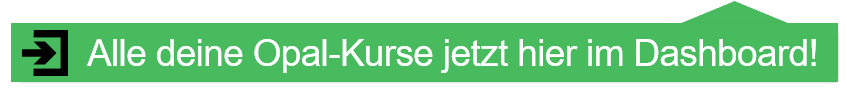
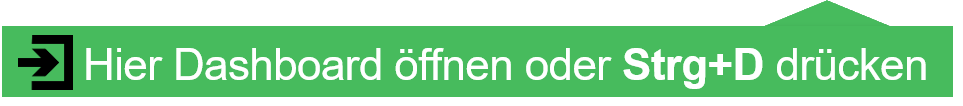
updated tutorials for strg+d shortcut

Changed region(s): [[0.0, 0.0, 1.0, 0.9318], [0.9209, 0.2273, 1.0, 0.2727], [0.8902, 0.1136, 0.9209, 0.2273]]

diff --git a/contentScripts/content_bildungsportal_other.js b/contentScripts/content_bildungsportal_other.js
@@ -21,7 +21,7 @@ chrome.storage.local.get(['isEnabled', "saved_click_counter", "mostLiklySubmitte
         showReviewBanner = true
     }
 
-    if(result.saved_click_counter > 100 && (result.showedKeyboardBanner === false || result.showedKeyboardBanner === undefined || result.showedKeyboardBanner === null || result.showedKeyboardBanner === "")){
+    if(result.saved_click_counter > 100 && !showReviewBanner && (result.showedKeyboardBanner === false || result.showedKeyboardBanner === undefined || result.showedKeyboardBanner === null || result.showedKeyboardBanner === "")){
         showKeyboardUpdate = true
         chrome.storage.local.set({showedKeyboardBanner: true}, function() {})
     }
@@ -49,14 +49,14 @@ function removeReviewBanner() {
     }
 }
 function removeKeyboardShortcutBanner() {
-    if(document.getElementById("removeKeyboardShortcutBanner")){
-        document.getElementById("removeKeyboardShortcutBanner").remove()
+    if(document.getElementById("keyboardBanner")){
+        document.getElementById("keyboardBanner").remove()
     }
 }
 
 function clickedWebstoreLink() {
-    if(document.getElementById("reviewBanner")){
-        document.getElementById("reviewBanner").remove()
+    if(document.getElementById("keyboardBanner")){
+        document.getElementById("keyboardBanner").remove()
         chrome.storage.local.set({mostLiklySubmittedReview: true}, function() {})
         chrome.storage.local.set({neverShowedReviewBanner: false}, function() {})
     }
@@ -65,9 +65,9 @@ function clickedWebstoreLink() {
 function showKeyboardShortcutUpdate(){
     let imgUrl = chrome.runtime.getURL("../images/autologin48.png")
     let banner = this.document.createElement("div")
-    banner.id ="reviewBanner"
+    banner.id ="keyboardBanner"
     banner.style = "font-size:22px; height:55px; line-height:55px;text-align:center"
-    banner.innerHTML = '<img src='+imgUrl+' style="position:relative; right: 15px;height: 35px;"> <b>Neu</b> von TUDresdenAutoLogin: Öffne das Dashboard mit <strong>Strg+D</strong><a id="removeKeyboardShortcutBanner" href="javascript:void(0)" style="position:absolute; right:45px; font-size:22; color: #888">Okay!</span>'
+    banner.innerHTML = '<img src='+imgUrl+' style="position:relative; right: 15px;height: 35px;"> <b>Neu</b> von TUDresdenAutoLogin: Öffne das Dashboard mit <strong>Strg+D</strong>.<a id="removeKeyboardShortcutBanner" href="javascript:void(0)" style="position:absolute; right:45px; font-size:22; color: #888">Okay!</span>'
     this.document.body.insertBefore(banner, document.body.childNodes[0])
 }
 

diff --git a/settings.html b/settings.html
@@ -11,7 +11,7 @@
     <p id="welcome"></p> 
     <p id="settings_comment">Hier findest du alle Funktionen und Einstellungen <img style="vertical-align: text-bottom;height: 18px;object-fit: contain;" src='./icons/cog.png'/></p> 
     <!-- New Accordion section-->
-    <button class="accordion">Finde IT-Dienste schneller</button>
+    <button class="accordion">Finde TU Dresden IT-Dienste schneller</button>
     <div class="panel">
       <p><b>Abk&uuml;rzungen in der Google-Suche</b><br>
       Gib z.B. "tumail" in der Google-Suche ein, um direkt zur Outlook-Web-App zu kommen.</p>
@@ -39,7 +39,7 @@
      <!--p>Klicke auf das TUDresdenAutoLogin Symbol <img  style="vertical-align:middle; height: 25px;" src="./images/autologin32.png"> oben rechts, um das Dashboard zu &ouml;ffnen.</p-->
      <!--p style="line-height: 18px;">Welche deiner Opal-Kurse m&ouml;chtest du im Dashboard sehen?<br-->
      <p><b>Im Dashbaord greifst du auf deine Opal-Kurse und wichtige Links zu<br></b>
-    &Ouml;ffne das Dashbaord oben rechts.<br>
+    &Ouml;ffne das Dashbaord oben rechts oder <b>dr&uuml;cke Strg+D.</b><br>
        <!--font class="grey-text">Um einen Kurs im Dashboard zu sehen, musst du im Opal eingeschrieben sein oder ihn als Favorit hinzuf&uuml;gen.</font--> 
      </p> 
        
